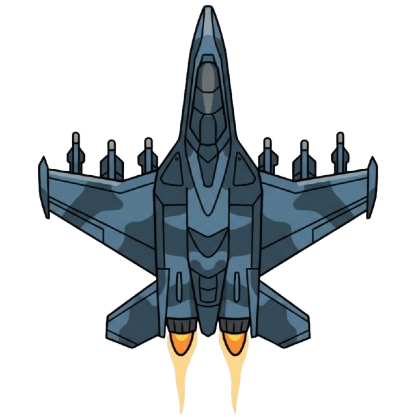
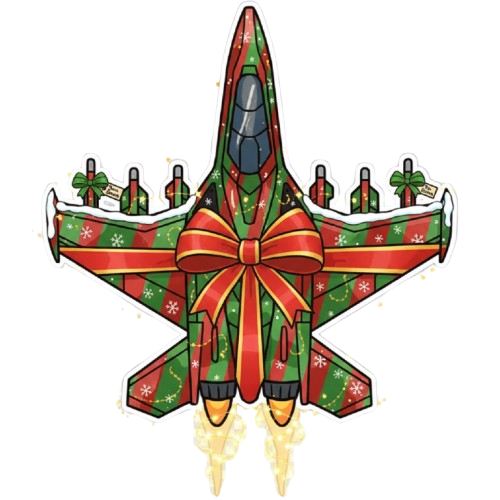
Add files via upload

Changed region(s): [[0.0935, 0.0, 0.9353, 0.9976]]

diff --git a/snowfall_effect.js b/snowfall_effect.js
@@ -1,0 +1,136 @@
+/**
+ * Snowfall Effect Script (snowfall_effect.js)
+ * Automatically creates a full-screen, straight-down snowfall canvas animation.
+ * To use, simply include this file in your HTML: <script src="snowfall_effect.js"></script>
+ */
+
+function startSnowfall() {
+    // 1. Create and configure the canvas element
+    const canvas = document.createElement('canvas');
+    canvas.id = 'snowCanvas';
+
+    // Apply necessary CSS styles to make it fixed, full-screen, and non-interactive
+    canvas.style.cssText = `
+        display: block;
+        position: fixed;
+        top: 0;
+        left: 0;
+        z-index: 1000; /* Ensures snow is above all other content */
+        pointer-events: none; /* Allows user clicks to pass through the canvas */
+        background-color: transparent; /* Ensure the canvas itself is transparent */
+    `;
+    
+    if (!document.body) {
+        console.error("Snowfall script: document.body is not yet available. Retrying on window load.");
+        window.addEventListener('load', startSnowfall);
+        return;
+    }
+    
+    document.body.appendChild(canvas);
+
+    const ctx = canvas.getContext('2d');
+    let snowflakes = [];
+    
+    // --- Configuration ---
+    // Adjust these values to customize the speed and density of the snow.
+    const maxSnowflakes = 150; 
+    const snowConfig = {
+        minRadius: 1,
+        maxRadius: 4,
+        minSpeed: 2,   // Controls the minimum speed (increased for the 'moving up' effect)
+        maxSpeed: 5,   // Controls the maximum speed
+        windStrength: 0, // Set to 0 for perfectly straight down movement
+        color: '#FFFFFF'
+    };
+
+    // --- Snowflake Class ---
+    class Snowflake {
+        constructor() {
+            this.reset();
+            // Randomly set x and y to fill the initial screen
+            this.x = Math.random() * canvas.width;
+            this.y = Math.random() * canvas.height;
+        }
+
+        reset() {
+            // Initialize/reset position (start above the screen)
+            this.x = Math.random() * canvas.width;
+            this.y = -Math.random() * canvas.height; 
+            this.radius = Math.random() * (snowConfig.maxRadius - snowConfig.minRadius) + snowConfig.minRadius;
+            this.speed = Math.random() * (snowConfig.maxSpeed - snowConfig.minSpeed) + snowConfig.minSpeed;
+        }
+
+        update() {
+            // Apply pure vertical movement (straight down)
+            this.y += this.speed;
+
+            // If snowflake falls below the bottom edge, reset it to the top
+            if (this.y > canvas.height) {
+                this.reset();
+            }
+        }
+
+        draw() {
+            ctx.beginPath();
+            ctx.arc(this.x, this.y, this.radius, 0, Math.PI * 2);
+            ctx.fillStyle = snowConfig.color;
+            // Add a slight shadow or blur for a softer look
+            ctx.shadowBlur = this.radius * 0.5;
+            ctx.shadowColor = snowConfig.color;
+            ctx.fill();
+        }
+    }
+
+    // --- Core Functions ---
+
+    // Adjusts canvas size to fill the window
+    function resizeCanvas() {
+        canvas.width = window.innerWidth;
+        canvas.height = window.innerHeight;
+    }
+
+    // Initialize the array of snowflakes
+    function initSnowflakes() {
+        snowflakes = [];
+        for (let i = 0; i < maxSnowflakes; i++) {
+            snowflakes.push(new Snowflake());
+        }
+    }
+
+    // The main animation loop
+    function animate() {
+        // Clear the entire canvas
+        // Note: For a true 'motion blur' effect, you could use a semi-transparent clear instead:
+        // ctx.fillStyle = 'rgba(11, 28, 46, 0.1)'; 
+        // ctx.fillRect(0, 0, canvas.width, canvas.height);
+        ctx.clearRect(0, 0, canvas.width, canvas.height); 
+
+        // Turn off shadows when clearing or drawing non-snow elements
+        ctx.shadowBlur = 0;
+
+        // Draw and update each snowflake
+        for (let i = 0; i < snowflakes.length; i++) {
+            snowflakes[i].update();
+            snowflakes[i].draw();
+        }
+
+        // Request the next frame for smooth animation
+        requestAnimationFrame(animate);
+    }
+
+    // --- Initialization and Events ---
+
+    // Initial setup
+    resizeCanvas();
+    initSnowflakes();
+    animate();
+
+    // Redraw and re-initialize on window resize for responsiveness
+    window.addEventListener('resize', () => {
+        resizeCanvas();
+        initSnowflakes();
+    });
+}
+
+// Automatically start the snowfall once the DOM content is loaded
+document.addEventListener('DOMContentLoaded', startSnowfall);

diff --git a/jetshop.html b/jetshop.html
@@ -4,6 +4,7 @@
     <meta charset="UTF-8">
     <meta name="viewport" content="width=device-width, initial-scale=1.0">
     <title>JetSurfers 2 - Jet Shop</title>
+    <script src="snowfall_effect.js"></script>
     <link rel="icon" href="rec/xmas-icon.jpg" type="image/png">
     <link rel="manifest" href="manifest.json">
     <script src="https://cdn.tailwindcss.com"></script>
@@ -11,7 +12,7 @@
         /* Styles copied from index.html for consistency */
         body {
             font-family: 'Inter', sans-serif;
-            background-color: #0d1117; /* Dark background */
+            background-color: rgb(40, 174, 252); /* Dark background */
             display: flex;
             justify-content: center;
             align-items: center;
@@ -133,7 +134,7 @@
     // --- START: Jet Definitions ---
     // This array MUST match the one in index.html
     const JETS = [
-        { id: 'default', name: 'Standard Issue', price: 0, img: 'rec/motor/default.png' },
+        { id: 'default', name: 'PILOT-XMAS 25', price: 0, img: 'rec/motor/default.png' },
         { id: 'blue_streak', name: 'Blue Streak', price: 500, img: 'rec/motor/jet_blue.png' },
         { id: 'red_comet', name: 'Nightwing', price: 1000, img: 'rec/motor/nightwing.png' },
         { id: 'gold_wing', name: 'Premium Jet', price: 5000, img: 'rec/motor/premium-jet.png' }
@@ -263,5 +264,6 @@
     };
 
 </script>
+
 </body>
 </html>

diff --git a/index.html b/index.html
@@ -4,6 +4,7 @@
     <meta charset="UTF-8">
     <meta name="viewport" content="width=device-width, initial-scale=1.0">
     <title>JetSurfers 2</title>
+    <script src="snowfall_effect.js"></script>
     <link rel="icon" href="rec/xmas-icon.jpg" type="image/png">
     <link rel="manifest" href="manifest.json">
     <script src="https://cdn.tailwindcss.com"></script>
@@ -11,7 +12,7 @@
         /* Custom Styles for Game Canvas and UI */
         body {
             font-family: 'Inter', sans-serif;
-            background-color: #0d1117; /* Dark background */
+            background-color: red; /* Dark background */
             display: flex;
             justify-content: center;
             align-items: center;
@@ -40,7 +41,7 @@
         
         #gameCanvas {
             display: block;
-            background: linear-gradient(0deg, #151f2e 0%, #0d1117 100%); /* Deep night sky gradient */
+            background: linear-gradient(0deg, #fcffff 0%, #dfe0e2 100%); /* Deep night sky gradient */
         }
         .ui-overlay {
             position: absolute;

diff --git a/shop.html b/shop.html
@@ -5,13 +5,14 @@
     <meta name="viewport" content="width=device-width, initial-scale=1.0">
     <title>JetSurfers 2 - Upgrades Shop</title>
     <link rel="manifest" href="manifest.json">
+    <script src="snowfall_effect.js"></script>
     <link rel="icon" href="rec/xmas-icon.jpg" type="image/png">
     <script src="https://cdn.tailwindcss.com"></script>
     <style>
         /* Custom Styles for Shop Page */
         body {
             font-family: 'Inter', sans-serif;
-            background-color: #0d1117; /* Dark background */
+            background-color: rgb(40, 174, 252); /* Dark background */
             color: white;
             display: flex;
             justify-content: center;
